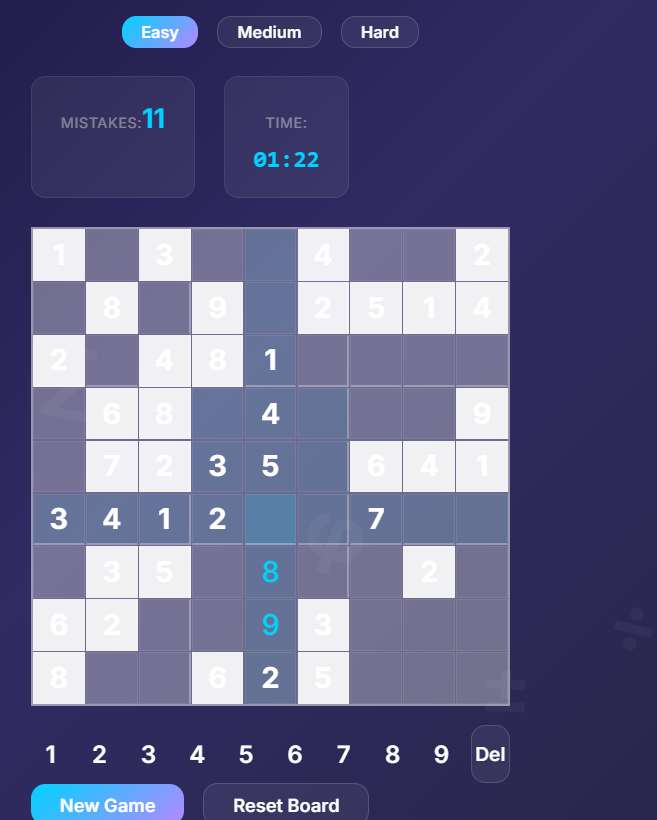
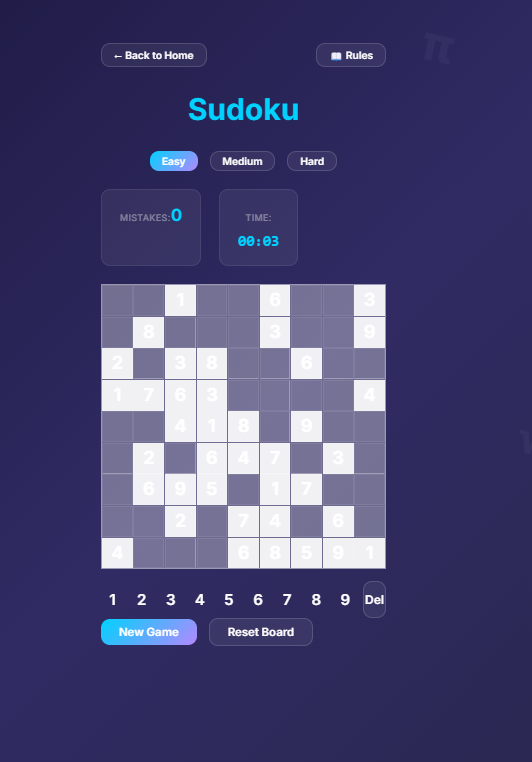
Update screenshots with latest UI captures

diff --git a/README.md b/README.md
@@ -14,24 +14,29 @@
 
 ## 📸 Screenshots & Showcase
 
-### 1. 2048 & Sudoku
-| 2048 Puzzle | Sudoku (9×9) |
-|:---:|:---:|
-| ![2048 Game](assets/screenshots/game-2048.png) | ![Sudoku](assets/screenshots/sudoku.png) |
+### 1. Home Page & Game Suite
+![MindGrid Home](assets/screenshots/home.png)
 
 ---
 
-### 2. Tic-Tac-Toe & Sliding Puzzles
-| Tic-Tac-Toe (3×3 Classic & 9×9 Ultimate) | 15 / 24 / 35 Sliding Puzzle |
+### 2. Sudoku & 2048
+| Sudoku (9×9 with Rule Validation) | 2048 Tile Merging |
 |:---:|:---:|
-| ![Tic Tac Toe](assets/screenshots/tic-tac-toe.png) | ![15 Puzzle](assets/screenshots/puzzle-15.png) |
+| ![Sudoku](assets/screenshots/sudoku.png) | ![2048 Game](assets/screenshots/game-2048.png) |
 
 ---
 
-### 3. Leaderboard & Match History
-| Real-time Leaderboard | Detailed Match History |
+### 3. Tic-Tac-Toe (Classic 3×3 & Ultimate 9×9)
+| Mode Selection | Ultimate XO (9×9 Meta-Board) |
 |:---:|:---:|
-| ![Leaderboard](assets/screenshots/leaderboard.png) | ![History](assets/screenshots/history.png) |
+| ![Tic Tac Toe Modes](assets/screenshots/tic-tac-toe-mode.png) | ![Ultimate XO](assets/screenshots/ultimate-xo.png) |
+
+---
+
+### 4. Sliding Puzzles & Leaderboards
+| Sliding Puzzles (15 / 24 / 35) | Real-time Leaderboard & History |
+|:---:|:---:|
+| ![Sliding Puzzle](assets/screenshots/puzzle-15.png) | ![Leaderboard](assets/screenshots/leaderboard.png) |
 
 ---
 
@@ -100,6 +105,8 @@ npm install
 ```
 
 ### 3. Configure Environment Variables (Optional)
+
+Copy the `.env.example` file to `.env.local`:
 
 ```bash
 cp .env.example .env.local
